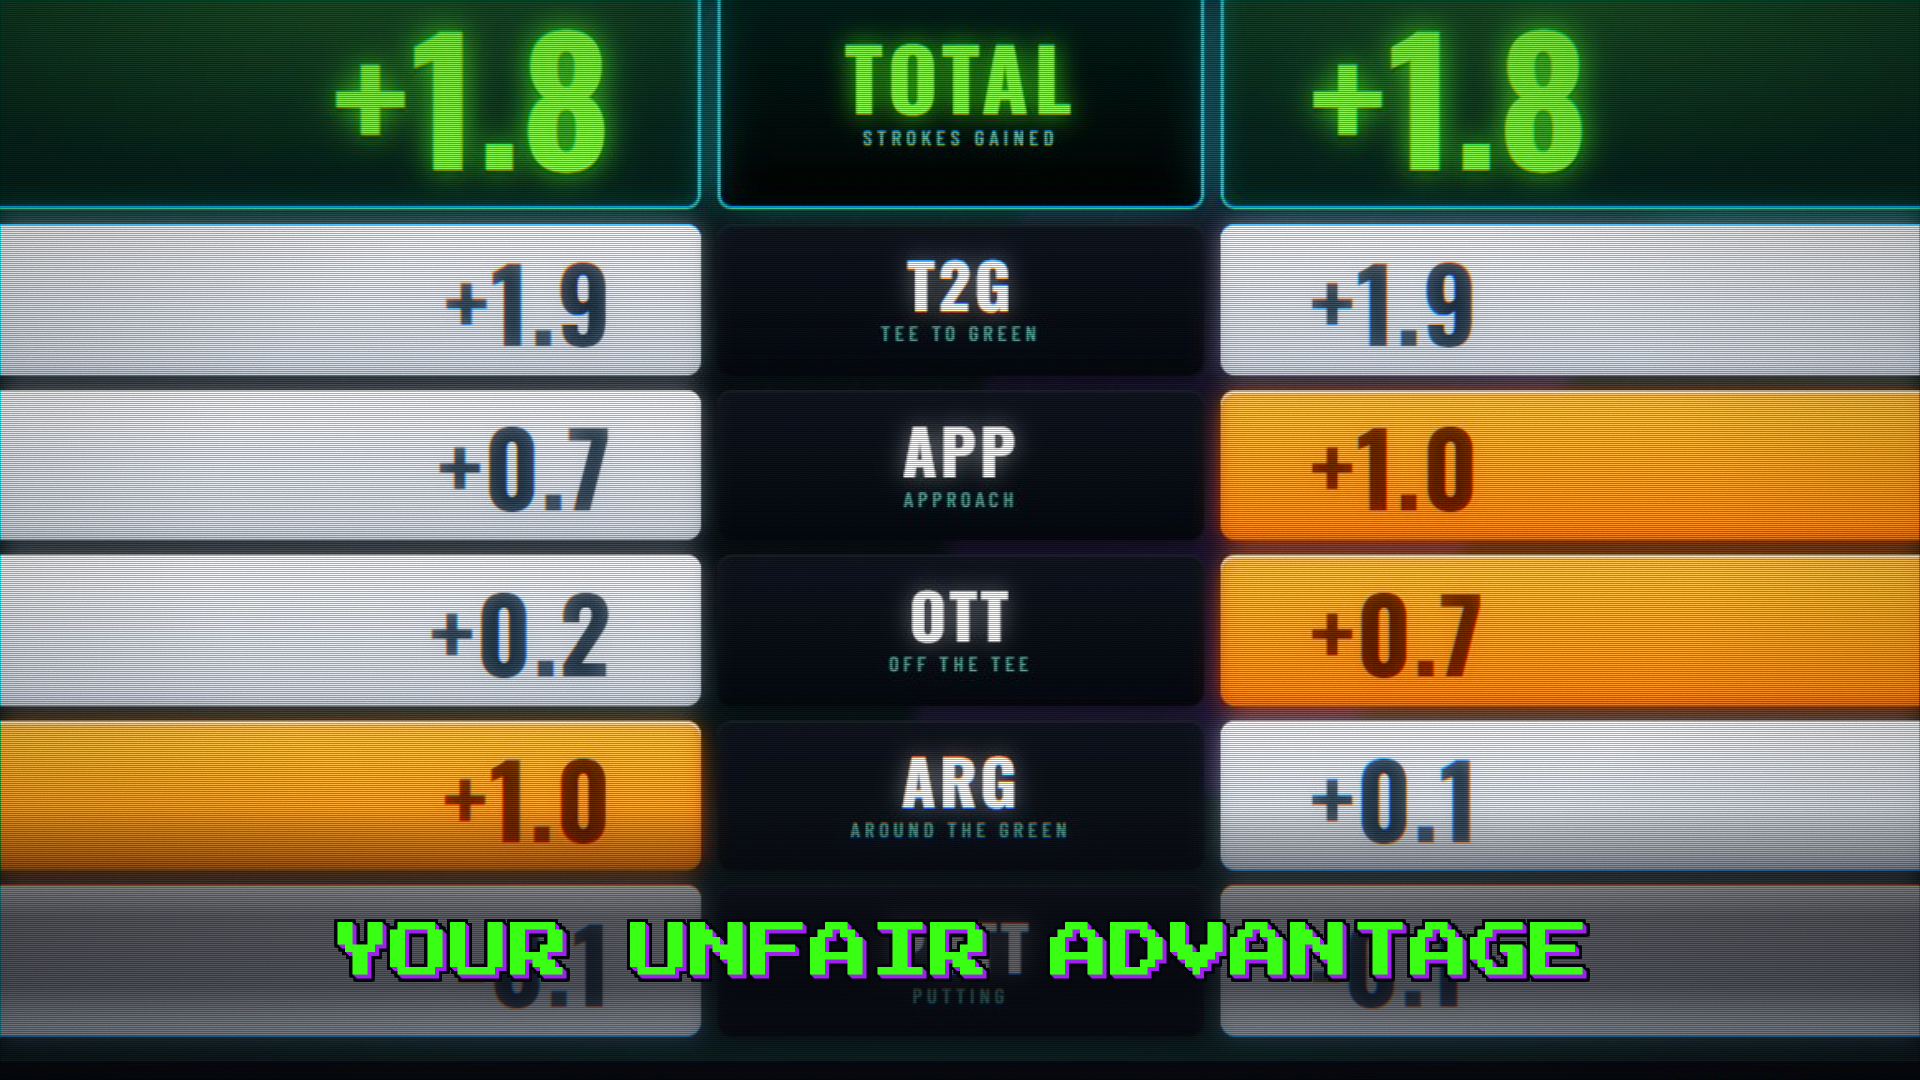
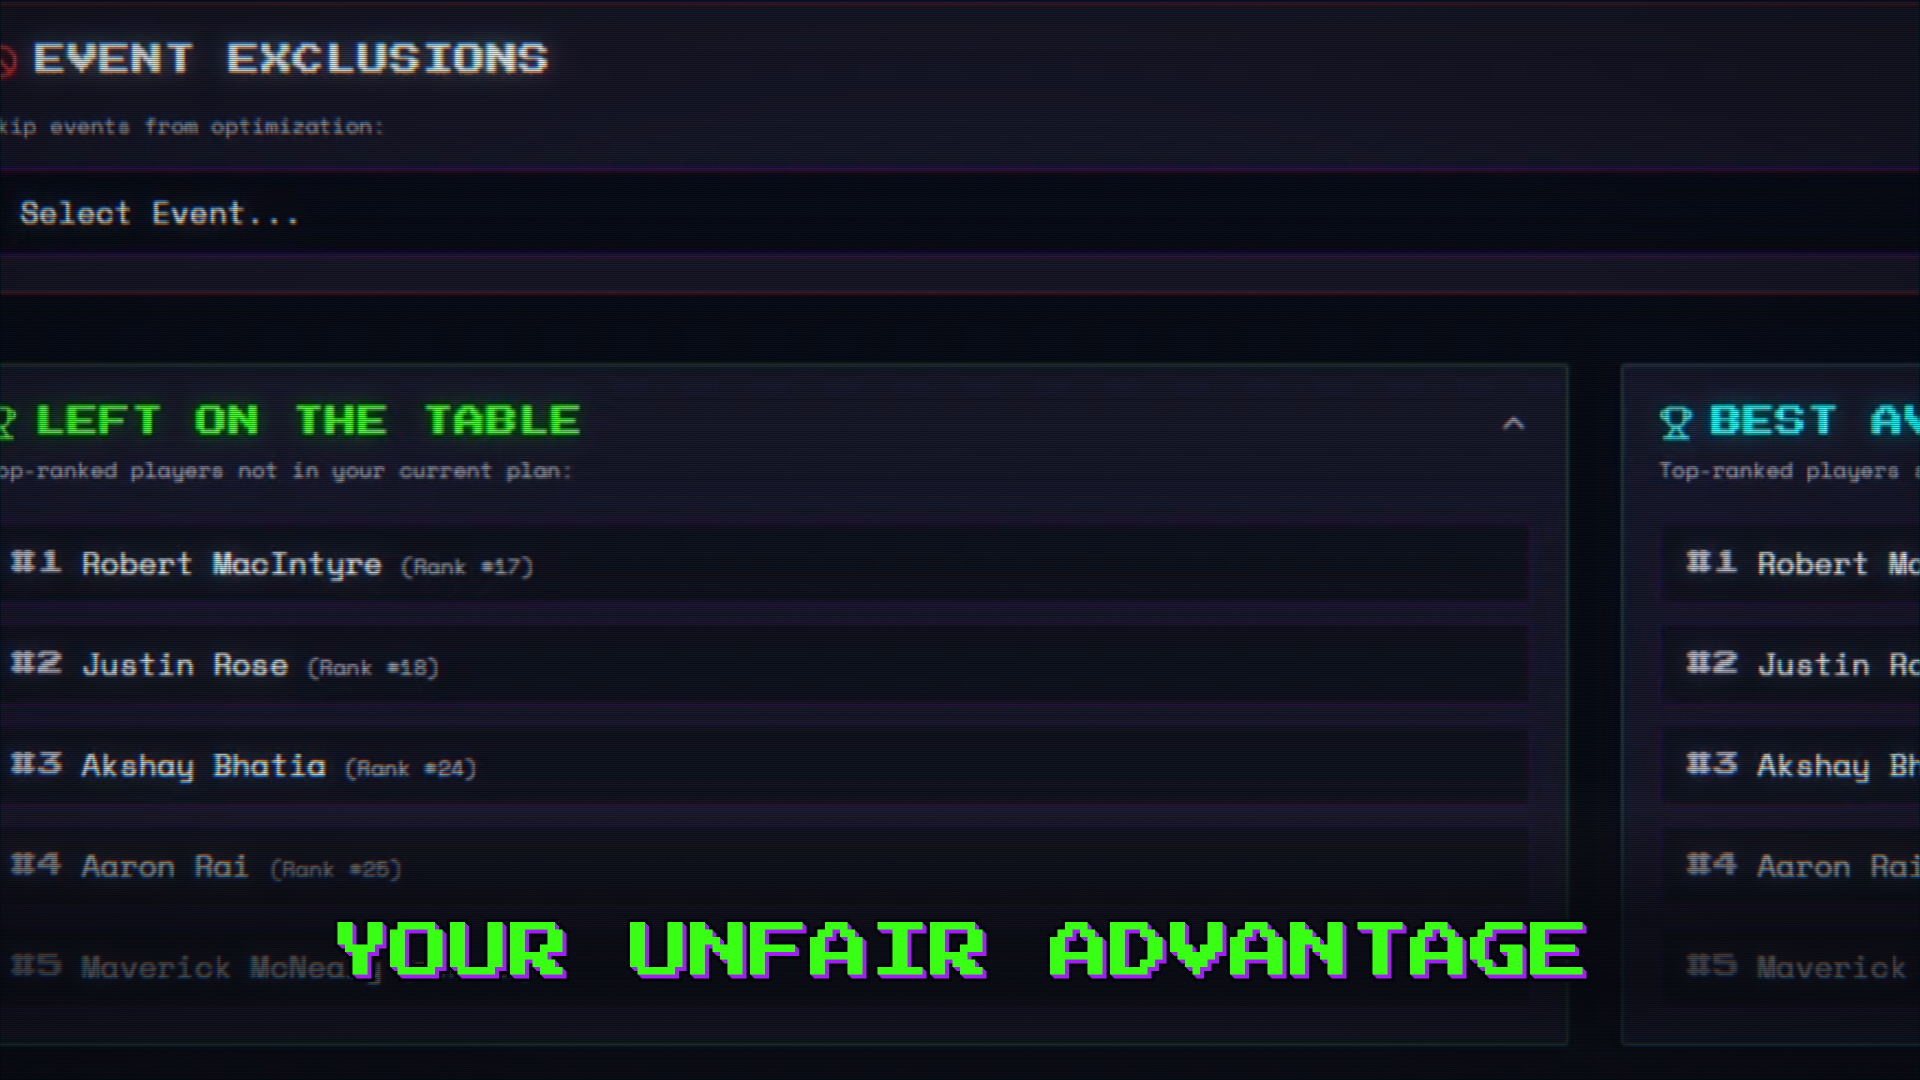
Teaser: build shots 2 and 5 from the screen recordings
Shot 2 now shows the Season Roadmap golfer selection table on the CRT
instead of the character select image; shot 5 flashes are cut from the
roadmap and This Week recordings instead of the chart PNGs.

Claude-Session: https://claude.ai/code/session_018aDFTsUpXzEbcF1v4LBt4q

diff --git a/oad-teaser/src/shots/CabinetShots.tsx b/oad-teaser/src/shots/CabinetShots.tsx
@@ -1,8 +1,8 @@
 import React from 'react';
 import {Img, staticFile} from 'remotion';
-import {ASSETS, BEAT, CABINET, CHAR_SELECT, COLORS, COPY, CUTS, HOME, LOGO, SHOT1, SHOT2, SHOT6} from '../config';
+import {ASSETS, BEAT, CABINET, COLORS, COPY, CUTS, HOME, LOGO, SEASON_TABLE, SHOT1, SHOT2, SHOT6} from '../config';
 import {Cabinet, SCREEN_CENTER, camLerp, camLookAt} from '../components/Cabinet';
-import {Box, Clip, PIXEL_FONT, Window, easeInOut, easeOut, hash, lerp, prog} from '../components/util';
+import {Box, Clip, PIXEL_FONT, SeasonTable, Window, easeInOut, easeOut, hash, lerp, prog, tableX} from '../components/util';
 
 const SW = CABINET.screen.w;
 const SH = CABINET.screen.h;
@@ -45,91 +45,75 @@ export const Shot1: React.FC<{frame: number}> = ({frame}) => {
 };
 
 // -------------------------- SHOT 2: CHOOSE YOUR GOLFER -----------------------
+// The Season Roadmap table on the CRT: one golfer per event. Rows wipe on,
+// then a selection cursor hops between the golfer dropdowns and locks.
 export const Shot2: React.FC<{frame: number}> = ({frame}) => {
   const t = prog(frame, CUTS.shot2, CUTS.shot3);
   const cam = camLookAt(lerp(SHOT2.cameraScale[0], SHOT2.cameraScale[1], t), SCREEN_CENTER.x, SCREEN_CENTER.y);
-  const s = CHAR_SELECT.stageScale;
-  const win = {x: (1920 - SW / s) / 2, y: -CHAR_SELECT.stageTop / s, w: SW / s};
+  const T = SEASON_TABLE;
+  const top = T.shot2Top;
+  const srcH = (SH * T.width) / SW;
 
-  // selection cursor: left -> right at 105 -> left at 120 -> lock at 135
   const [m1, m2] = SHOT2.cursorMoves;
-  const sel = frame >= m1 && frame < m2 ? 1 : 0;
+  const row = SHOT2.cursorRows[frame < m1 ? 0 : frame < m2 ? 1 : 2];
   const locked = frame >= SHOT2.lockAt;
+  const cursorOn = frame >= SHOT2.rowsFrom + 8;
   const blinkOn = locked || (frame - CUTS.shot2) % SHOT2.blinkPeriod < SHOT2.blinkPeriod / 2 + 1;
   const lockFlash = locked && frame < SHOT2.lockAt + SHOT2.lockFlashFrames;
-  const card = CHAR_SELECT.cards[sel];
-
-  // INSERT COIN pulses on every beat
-  const sinceBeat = (frame - CUTS.shot2) % BEAT;
-  const pulse = Math.pow(1 - sinceBeat / BEAT, 2.2);
-  const b = CHAR_SELECT.button;
+  const beat = Math.pow(1 - ((frame - CUTS.shot2) % BEAT) / BEAT, 2.2);
+  const rowY = (i: number) => T.rowTop + i * T.rowPitch - top;
+  const sel = {x: tableX(T.selector.x) - 8, y: rowY(row) + T.selector.dy - 8, w: T.selector.w + 16, h: T.selector.h + 16};
+  const color = locked ? COLORS.green : '#FFFFFF';
+  const glow = locked ? '57,255,20' : '34,211,238';
 
   return (
     <Cabinet frame={frame} cam={cam} marquee={1}>
-      <Window win={win} outW={SW} outH={SH} background={COLORS.charSelectBg}>
-        <Img
-          src={staticFile(ASSETS.charSelect)}
-          style={{
-            position: 'absolute',
-            left: 0,
-            top: 0,
-            width: 1920,
-            height: 1004,
-            WebkitMaskImage: 'linear-gradient(to bottom, #000 0%, #000 92.5%, transparent 100%)',
-            maskImage: 'linear-gradient(to bottom, #000 0%, #000 92.5%, transparent 100%)',
-          }}
-        />
-        {/* stat bars: gray covers shrink to the right to reveal the painted fill */}
-        {CHAR_SELECT.bars.map((bar, i) => {
-          const start = SHOT2.barsFrom + i * SHOT2.barsStagger;
-          const p = easeOut(prog(frame, start, start + SHOT2.barsDuration));
+      <Window win={{x: 0, y: 0, w: T.width}} outW={SW} outH={SH} background={COLORS.pageBg}>
+        <SeasonTable sourceFrame={SHOT2.srcFrame} top={top} height={srcH} />
+        {/* rows wipe on left to right, one after another */}
+        {Array.from({length: T.rows + 1}).map((_, i) => {
+          const start = SHOT2.rowsFrom + Math.min(i, T.rows - 1) * SHOT2.rowsStagger;
+          const p = easeOut(prog(frame, start, start + SHOT2.rowsDuration));
           if (p >= 1) return null;
-          const x = lerp(bar.x0, bar.x1, p);
           return (
             <div
               key={i}
               style={{
                 position: 'absolute',
-                left: x,
-                top: bar.y,
-                width: bar.x1 - x + 1,
-                height: bar.h,
-                background: COLORS.barEmpty,
-                borderRadius: bar.round ? '0 9px 9px 0' : 0,
+                left: 2 + (T.width - 2) * p,
+                top: rowY(i) + 1,
+                width: (T.width - 2) * (1 - p) + 2,
+                height: T.rowPitch,
+                background: T.rowBg,
+                borderLeft: p > 0 ? `4px solid ${COLORS.green}` : undefined,
               }}
             />
           );
         })}
-        {/* button pulse: a scaled, brightened copy of the button region */}
-        <Box
-          r={b}
-          style={{
-            overflow: 'hidden',
-            transform: `scale(${1 + 0.045 * pulse})`,
-            filter: `brightness(${1 + 0.35 * pulse})`,
-            borderRadius: 26,
-            boxShadow: `0 0 ${50 * pulse}px rgba(255,138,31,${0.8 * pulse})`,
-          }}
-        >
-          <Img
-            src={staticFile(ASSETS.charSelect)}
-            style={{position: 'absolute', left: -b.x, top: -b.y, width: 1920, height: 1004}}
-          />
-        </Box>
-        {/* selection outline */}
-        {blinkOn ? (
-          <Box
-            r={{x: card.x - 12, y: card.y - 12, w: card.w + 24, h: card.h + 24}}
+        {/* selected row tint + cursor on the golfer dropdown */}
+        {cursorOn ? (
+          <div
             style={{
-              border: `9px solid ${locked ? COLORS.green : '#FFFFFF'}`,
-              borderRadius: 22,
-              boxShadow: locked
-                ? `0 0 40px ${COLORS.green}, 0 0 90px rgba(57,255,20,0.6), inset 0 0 26px rgba(57,255,20,0.5)`
-                : `0 0 34px ${COLORS.cyan}, 0 0 70px rgba(34,211,238,0.55), inset 0 0 20px rgba(34,211,238,0.5)`,
+              position: 'absolute',
+              left: 2,
+              top: rowY(row) + 1,
+              width: T.width,
+              height: T.rowPitch - 1,
+              background: `rgba(${glow},${0.1 + 0.06 * beat})`,
             }}
           />
         ) : null}
-        {lockFlash ? <div style={{position: 'absolute', left: -200, top: -200, width: 2400, height: 1500, background: '#fff', opacity: 0.85}} /> : null}
+        {cursorOn && blinkOn ? (
+          <Box
+            r={sel}
+            style={{
+              border: `4px solid ${color}`,
+              borderRadius: 6,
+              boxShadow: `0 0 ${14 + 10 * beat}px rgba(${glow},1), 0 0 ${34 + 20 * beat}px rgba(${glow},0.6), inset 0 0 10px rgba(${glow},0.45)`,
+            }}
+          />
+        ) : null}
+        {lockFlash ? <div style={{position: 'absolute', left: -50, top: -50, width: 1000, height: 800, background: '#fff', opacity: 0.85}} /> : null}
       </Window>
     </Cabinet>
   );

diff --git a/oad-teaser/src/config.ts b/oad-teaser/src/config.ts
@@ -21,8 +21,6 @@ export const COLORS = {
   pageBg: '#090C19', // sampled from the recordings (rgb 9,12,25)
   tileBg: '#18182C', // sampled from the roadmap stat tiles
   tileLabel: '#9A98A8',
-  charSelectBg: '#03101D', // sampled from character_select.png edges
-  barEmpty: '#474745', // sampled empty stat-bar gray
   logoBg: '#06090F', // sampled from logo_marquee.png corners
   cabinet: '#0A0C18',
   bezel: '#05060C',
@@ -81,10 +79,12 @@ export const SHOT1 = {
 
 export const SHOT2 = {
   cameraScale: [1.78, 1.84] as const, // screen fills the frame, bezel at sides
-  barsFrom: 66,
-  barsStagger: 4,
-  barsDuration: 10, // last bar finishes at 66 + 5*4 + 10 = 96
-  cursorMoves: [105, 120] as const, // jump right, jump back left
+  srcFrame: 4, // roadmap_scroll source frame (top of page, at rest)
+  rowsFrom: 66, // season rows wipe on one by one
+  rowsStagger: 4,
+  rowsDuration: 10, // last row finishes at 66 + 5*4 + 10 = 96
+  cursorRows: [0, 2, 1] as const, // row selected at start, after move 1, after move 2
+  cursorMoves: [105, 120] as const,
   lockAt: 135,
   lockFlashFrames: 3,
   blinkPeriod: 6,
@@ -195,32 +195,32 @@ export const ROADMAP = {
   tileValueY: 288,
 };
 
-// character_select.png (1920x1004)
-export const CHAR_SELECT = {
-  stageScale: 0.517, // image px -> screen units
-  stageTop: 18,
-  bars: [
-    // x0 = fill start, x1 = fill end, as painted in the image
-    {x0: 650, x1: 945, y: 357, h: 34, round: true},
-    {x0: 648, x1: 852, y: 454, h: 35, round: false},
-    {x0: 650, x1: 914, y: 551, h: 34, round: false},
-    {x0: 1315, x1: 1588, y: 357, h: 34, round: false},
-    {x0: 1316, x1: 1560, y: 455, h: 34, round: false},
-    {x0: 1315, x1: 1582, y: 551, h: 34, round: false},
+// The season table as shown in shots 2 and 5: two strips of the recording
+// (event column, then earnings + golfer selection) placed side by side, which
+// closes the empty middle of each row so the text can be shown larger.
+export const SEASON_TABLE = {
+  strips: [
+    {x: 16, w: 454},
+    {x: 1000, w: 416},
   ],
-  cards: [
-    {x: 364, y: 290, w: 258, h: 336},
-    {x: 1030, y: 290, w: 259, h: 336},
-  ] as Rect[],
-  button: {x: 626, y: 682, w: 668, h: 160},
+  width: 870,
+  rowTop: 428, // source y of the first row at the top-of-page frame
+  rowPitch: 73,
+  rows: 6,
+  rowBg: '#12101C', // sampled row background
+  selector: {x: 1156, w: 238, dy: 16, h: 42}, // golfer dropdown inside a row
+  shot2Top: 330, // source y shown at the top of the CRT in shot 2
 };
 
-// Shot 5 crops (source px). All exclude the player headshots.
-export const SHOT5_CROPS = {
-  radial: {src: 'images/chart_radial_sg.png', nat: {w: 911, h: 1067}, crop: {x: 120, y: 690, w: 670, h: 377}},
-  comparison: {src: 'images/comparison_last20.png', nat: {w: 1285, h: 1046}, crop: {x: 4, y: 328, w: 1277, h: 718}},
-  accuracy: {src: 'images/accuracy_report.png', nat: {w: 1299, h: 1561}, crop: {x: 0, y: 392, w: 1299, h: 731}},
-};
+// Shot 5: three flashes cut from the recordings.
+// type 'table' uses the two-strip season table (window is in strip coordinates),
+// type 'clip' is a plain window onto a recording.
+export type Flash = {type: 'table' | 'clip'; src: string; sourceFrame: number; win: {x: number; y: number; w: number; h: number}};
+export const SHOT5_FLASHES: Flash[] = [
+  {type: 'table', src: 'video/prepped/roadmap_scroll.mp4', sourceFrame: 92, win: {x: 0, y: 70, w: 870, h: 489}},
+  {type: 'clip', src: 'video/prepped/roadmap_scroll.mp4', sourceFrame: 150, win: {x: 0, y: 350, w: 956, h: 538}},
+  {type: 'clip', src: 'video/prepped/this_week.mp4', sourceFrame: 40, win: {x: 560, y: 380, w: 840, h: 472.5}},
+];
 
 // logo_marquee.png (949x457)
 export const LOGO = {
@@ -233,7 +233,6 @@ export const ASSETS = {
   home: 'video/prepped/home_hero.mp4',
   thisWeek: 'video/prepped/this_week.mp4',
   roadmap: 'video/prepped/roadmap_scroll.mp4',
-  charSelect: 'images/character_select.png',
   logo: 'images/logo_marquee.png',
   fontPixel: 'fonts/PressStart2P.woff2',
   fontMono: 'fonts/SpaceMono-Bold.woff2',

diff --git a/oad-teaser/src/shots/FullShots.tsx b/oad-teaser/src/shots/FullShots.tsx
@@ -1,8 +1,7 @@
 import React from 'react';
-import {Img, staticFile} from 'remotion';
-import {ASSETS, COLORS, COPY, CUTS, ROADMAP, SHOT3, SHOT4, SHOT5, SHOT5_CROPS, THIS_WEEK} from '../config';
+import {ASSETS, COLORS, COPY, CUTS, ROADMAP, SHOT3, SHOT4, SHOT5, SHOT5_FLASHES, THIS_WEEK} from '../config';
 import {FullFrameCRT} from '../components/CRT';
-import {Box, Clip, MONO_FONT, PIXEL_FONT, Window, easeInOut, easeOut, lerp, lerpRect, prog} from '../components/util';
+import {Box, Clip, MONO_FONT, PIXEL_FONT, SeasonTable, Window, easeInOut, easeOut, lerp, lerpRect, prog} from '../components/util';
 
 // ---------------------------- SHOT 3: THE RIGHT PICK -------------------------
 export const Shot3: React.FC<{frame: number}> = ({frame}) => {
@@ -229,19 +228,24 @@ export const Shot4: React.FC<{frame: number}> = ({frame}) => {
 };
 
 // --------------------------- SHOT 5: UNFAIR ADVANTAGE ------------------------
+// Three fast flashes cut from the product recordings, each with a push in.
 export const Shot5: React.FC<{frame: number}> = ({frame}) => {
   const idx = frame < SHOT5.flashes[1] ? 0 : frame < SHOT5.flashes[2] ? 1 : 2;
-  const def = [SHOT5_CROPS.radial, SHOT5_CROPS.comparison, SHOT5_CROPS.accuracy][idx];
+  const def = SHOT5_FLASHES[idx];
   const t = prog(frame, SHOT5.flashes[idx], SHOT5.flashes[idx] + SHOT5.each);
   const s = lerp(SHOT5.push[0], SHOT5.push[1], easeOut(t));
-  const c = def.crop;
+  const c = def.win;
   const w = c.w / s;
-  const win = {x: c.x + (c.w - w) / 2, y: c.y + ((c.h - c.h / s) / 2) * 0.8, w};
+  const win = {x: c.x + (c.w - w) / 2, y: c.y + ((c.h - c.h / s) / 2) * 0.6, w};
   const hit = frame - SHOT5.flashes[idx] < 1;
   return (
     <FullFrameCRT frame={frame}>
-      <Window win={win} outW={1920} outH={1080} background="#000">
-        <Img src={staticFile(def.src)} style={{position: 'absolute', left: 0, top: 0, width: def.nat.w, height: def.nat.h}} />
+      <Window win={win} outW={1920} outH={1080} background={COLORS.pageBg}>
+        {def.type === 'table' ? (
+          <SeasonTable sourceFrame={def.sourceFrame} top={0} height={888} />
+        ) : (
+          <Clip src={def.src} sourceFrame={def.sourceFrame} />
+        )}
       </Window>
       {hit ? <div style={{position: 'absolute', inset: 0, background: '#fff', opacity: 0.5}} /> : null}
     </FullFrameCRT>

diff --git a/oad-teaser/src/components/util.tsx b/oad-teaser/src/components/util.tsx
@@ -1,6 +1,6 @@
 import React from 'react';
 import {Freeze, OffthreadVideo, continueRender, delayRender, staticFile} from 'remotion';
-import {ASSETS, Rect} from '../config';
+import {ASSETS, Rect, SEASON_TABLE} from '../config';
 
 export const PIXEL_FONT = 'OADPixel';
 export const MONO_FONT = 'OADMono';
@@ -91,3 +91,31 @@ export const Box: React.FC<{r: Rect; style?: React.CSSProperties; children?: Rea
 }) => (
   <div style={{position: 'absolute', left: r.x, top: r.y, width: r.w, height: r.h, ...style}}>{children}</div>
 );
+
+// The season table with the empty middle of each row closed up: two strips of
+// the roadmap recording side by side. `top` is the source y at the top edge.
+export const SeasonTable: React.FC<{sourceFrame: number; top: number; height: number}> = ({sourceFrame, top, height}) => {
+  let left = 0;
+  return (
+    <>
+      {SEASON_TABLE.strips.map((st) => {
+        const x = left;
+        left += st.w;
+        return (
+          <div key={st.x} style={{position: 'absolute', left: x, top: 0, width: st.w + 0.5, height, overflow: 'hidden'}}>
+            <Clip src={ASSETS.roadmap} sourceFrame={sourceFrame} style={{left: -st.x, top: -top}} />
+          </div>
+        );
+      })}
+    </>
+  );
+};
+// source x -> x inside the two-strip table
+export const tableX = (x: number) => {
+  let left = 0;
+  for (const st of SEASON_TABLE.strips) {
+    if (x >= st.x && x <= st.x + st.w) return left + (x - st.x);
+    left += st.w;
+  }
+  return x;
+};

diff --git a/oad-teaser/README.md b/oad-teaser/README.md
@@ -57,7 +57,7 @@ Everything you are likely to tweak is in **`src/config.ts`**:
 | Per-shot timings (coin, power-on, bar fills, cursor moves, card reveals, button press, whip, count-up, end-card blink) | `SHOT1` to `SHOT6` |
 | CRT look (scanlines, RGB offset, bloom, noise, flicker, rolling band) | `CRT` |
 | Cabinet geometry | `CABINET` |
-| Crop windows and overlay rectangles for each asset | `HOME`, `THIS_WEEK`, `ROADMAP`, `CHAR_SELECT`, `SHOT5_CROPS`, `LOGO` |
+| Crop windows and overlay rectangles for each asset | `HOME`, `THIS_WEEK`, `ROADMAP`, `SEASON_TABLE`, `SHOT5_FLASHES`, `LOGO` |
 | Asset file names | `ASSETS` |
 
 Other files:
@@ -77,6 +77,17 @@ Other files:
 
 Every animation is a pure function of the frame number: there are no timers or
 free-running CSS animations, and recordings are sampled by explicit source frame.
+
+## Recordings first
+
+Every shot is built from the three product screen recordings. The only still
+image in the cut is `logo_marquee.png` (cabinet marquee and end card).
+`character_select.png` and the three chart PNGs in `assets/images/` are not used.
+
+Shots 2 and 5 show the Season Roadmap table as two strips of the recording
+placed side by side (`SEASON_TABLE.strips`): the event column and the
+earnings + golfer selection columns. This closes the empty middle of each row
+so the text can be shown about twice as large. Nothing inside the strips is changed.
 
 ## Fonts and licenses
 
